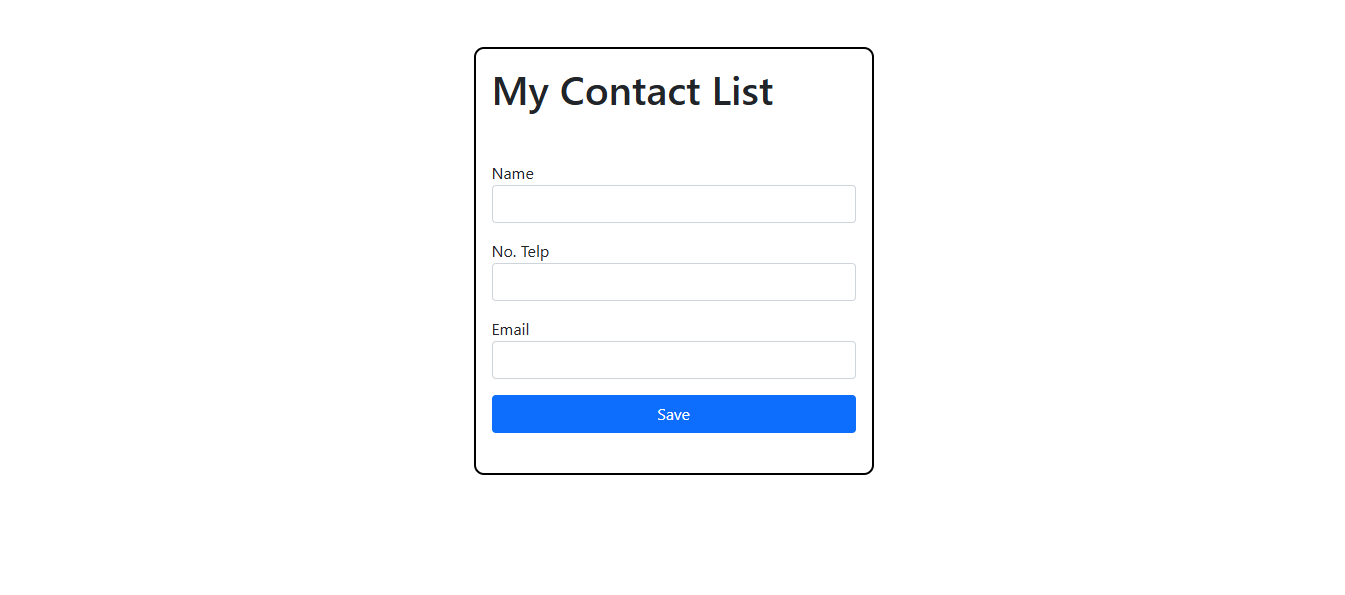
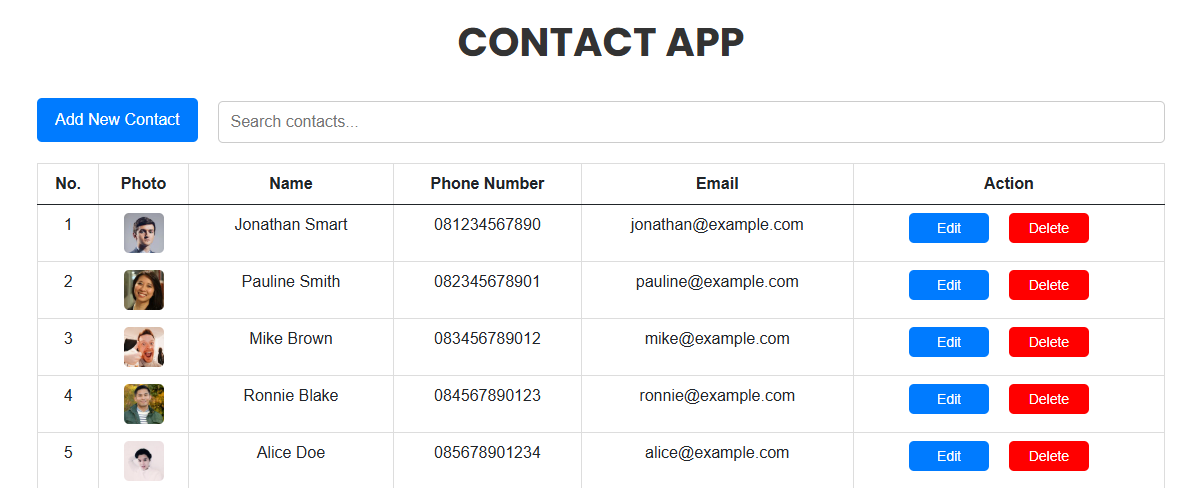
replace employee list to contact app

diff --git a/components/Projects.tsx b/components/Projects.tsx
@@ -17,10 +17,10 @@ const Projects: React.FC<{ id: string }> = ({ id }) => {
       link: "https://web-company-profile-three.vercel.app/home",
     },
     {
-      title: "Employee List",
-      description: "Manage employee data easily.",
-      image: "/images/employeeList.png",
-      link: "https://employee-list-liard.vercel.app/",
+      title: "Contact App",
+      description: "Manage and organize your contacts easily with this app.",
+      image: "/images/contactApp.png",
+      link: "https://my-contact-app-kappa.vercel.app/",
     },
     {
       title: "Quotes Generator",
